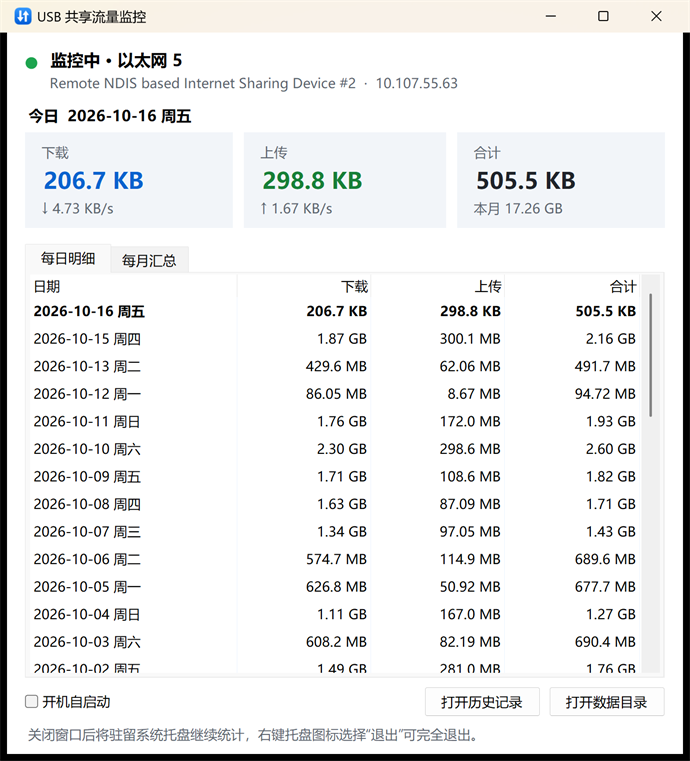
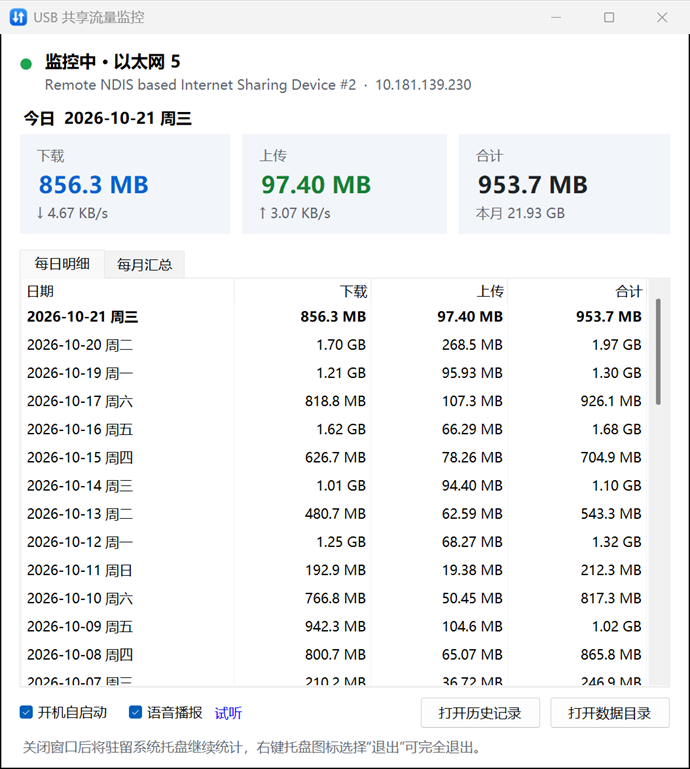
托盘菜单显示版本号，版本升至 1.1.0 (#4)
The tray menu now shows "版本 1.1.0" (greyed) above 退出. The version
comes from AssemblyVersion via Program.Version, so a release only has to
bump it in one place.

Also refreshes the README screenshots so the window footer shows the new
语音播报 toggle and 试听 link.

diff --git a/src/Program.cs b/src/Program.cs
@@ -9,8 +9,8 @@ using System.Windows.Forms;
 [assembly: AssemblyTitle("USB 共享流量监控")]
 [assembly: AssemblyProduct("USB 共享流量监控")]
 [assembly: AssemblyDescription("实时统计手机 USB 网络共享消耗的流量")]
-[assembly: AssemblyVersion("1.0.0.0")]
-[assembly: AssemblyFileVersion("1.0.0.0")]
+[assembly: AssemblyVersion("1.1.0.0")]
+[assembly: AssemblyFileVersion("1.1.0.0")]
 
 namespace UsbShareMonitor
 {
@@ -18,6 +18,9 @@ namespace UsbShareMonitor
     {
         internal const string AppName = "USB 共享流量监控";
         internal const string AppId = "UsbShareMonitor";
+
+        /// <summary>"1.1.0", taken from AssemblyVersion above so there is only one place to bump.</summary>
+        internal static readonly string Version = typeof(Program).Assembly.GetName().Version.ToString(3);
 
         /// <summary>Folder holding data.ini, the CSV history and the event log.</summary>
         internal static string DataDir { get; private set; }

diff --git a/src/TrayApp.cs b/src/TrayApp.cs
@@ -207,12 +207,13 @@ namespace UsbShareMonitor
             _voiceMenuItem = new ToolStripMenuItem("语音播报", null, (s, e) => SetVoice(!_voiceMenuItem.Checked));
             var history = new ToolStripMenuItem("打开历史记录 (CSV)", null, (s, e) => OpenHistory());
             var folder = new ToolStripMenuItem("打开数据目录", null, (s, e) => OpenInShell(_store.DataDir));
+            var version = new ToolStripMenuItem("版本 " + Program.Version) { Enabled = false };
             var exit = new ToolStripMenuItem("退出", null, (s, e) => ExitApp("用户从托盘菜单退出"));
             menu.Items.AddRange(new ToolStripItem[]
             {
                 show, _todayMenuItem, new ToolStripSeparator(),
                 _autoStartMenuItem, _voiceMenuItem, history, folder, new ToolStripSeparator(),
-                exit,
+                version, exit,
             });
             menu.Opening += (s, e) =>
             {

diff --git a/README.md b/README.md
@@ -33,7 +33,7 @@ Windows 11 托盘小工具：实时统计电脑通过 **手机 USB 网络共享*
 2. 勾选窗口左下角的 **开机自启动**（托盘右键菜单里也有）。开机后程序直接以托盘方式启动，不弹窗口。
 3. 点窗口右上角 **×**：窗口隐藏，程序驻留在右下角托盘继续统计。
    - 左键单击托盘图标：重新打开窗口（再次双击 exe 效果相同，不会启动第二个实例）
-   - 右键托盘图标 → **退出**：保存数据并完全退出
+   - 右键托盘图标 → **退出**：保存数据并完全退出；菜单底部还会显示当前版本号（如“版本 1.1.0”）
    - Windows 11 默认可能把新图标收进 **^** 折叠区，可以把它拖到任务栏上常驻显示
 4. 托盘图标为 **蓝色** 表示已检测到 USB 共享网卡，**灰色** 表示未连接。鼠标悬停可看到今日用量。
 5. 窗口左下角的 **语音播报**（托盘右键菜单里也有）默认开启，点旁边的 **试听** 可以马上听一遍效果，详见下文[语音播报](#语音播报)。
